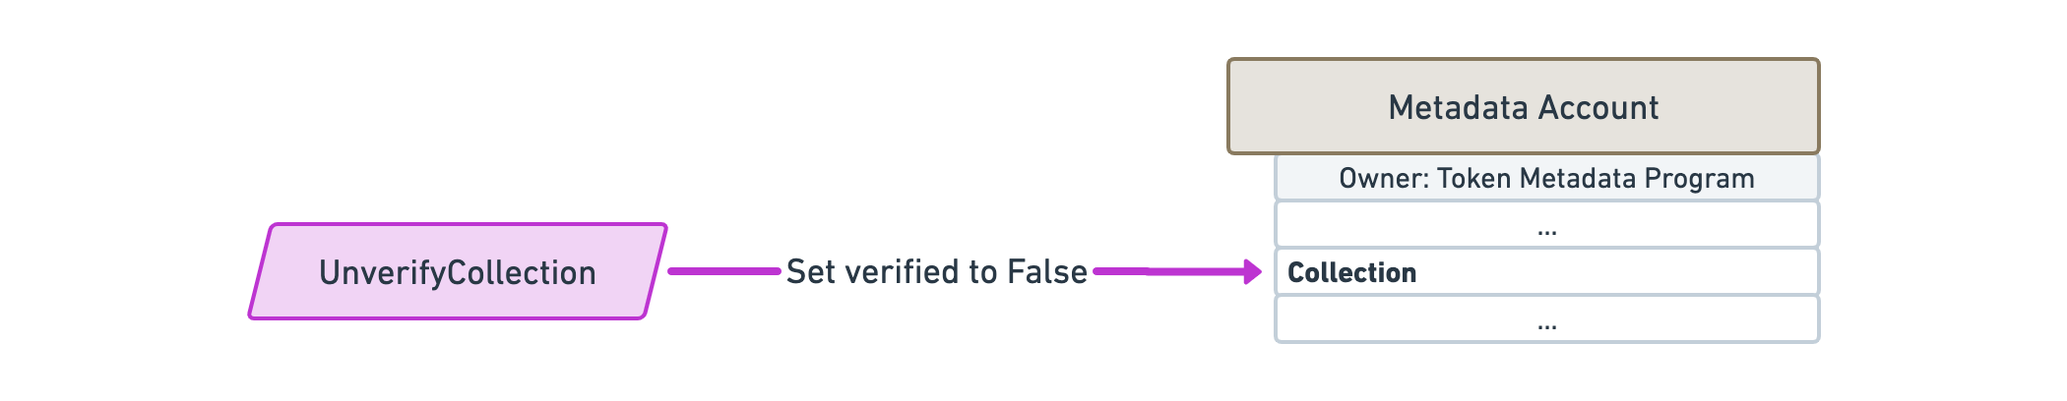
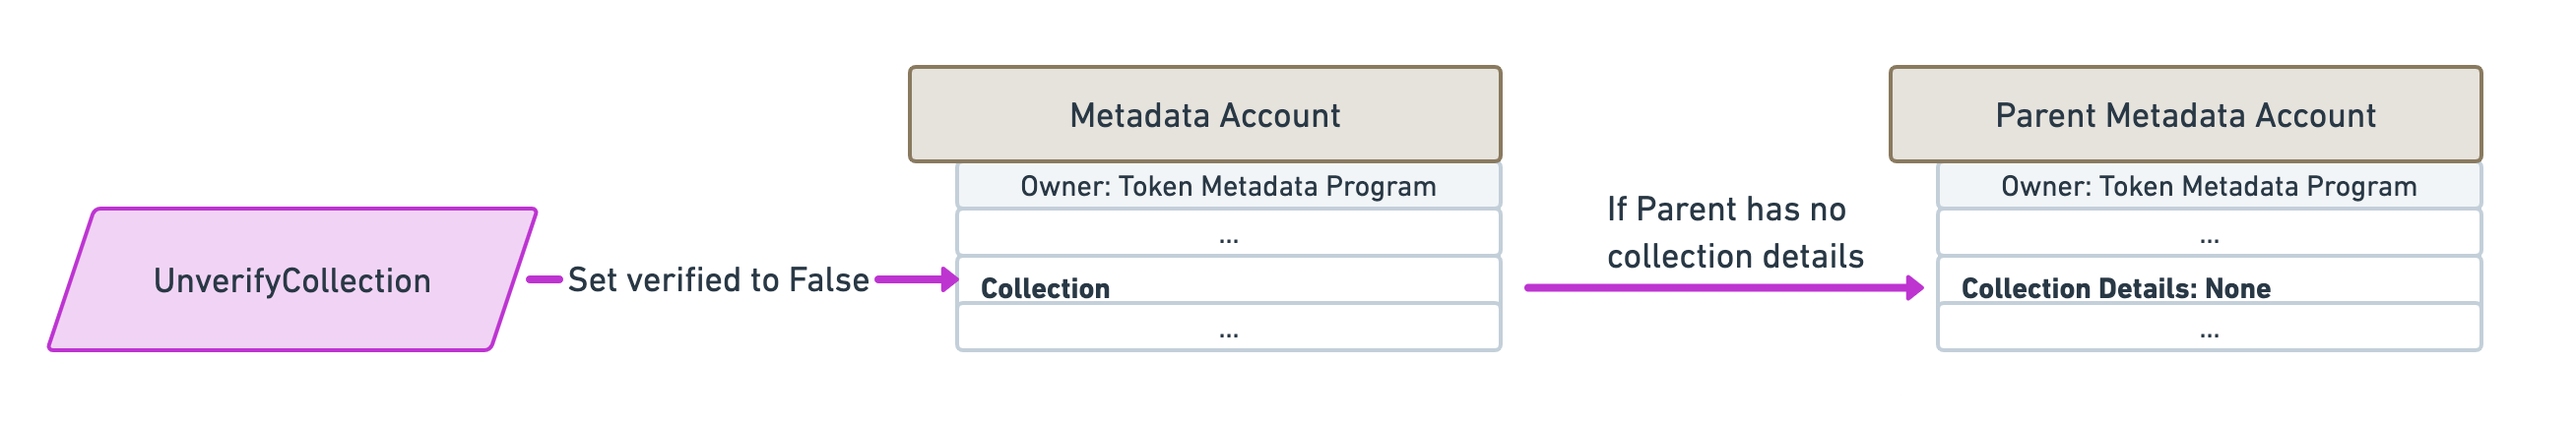
refactor(token-metadata): update verify, unverify and set-and-verify instructions

diff --git a/docs/programs/token-metadata/instructions.md b/docs/programs/token-metadata/instructions.md
@@ -9,7 +9,7 @@ import idl from './idl.js';
 
 ## Create a Metadata account
 
-<ProgramInstruction idl={idl} instruction="CreateMetadataAccountV2">
+<ProgramInstruction idl={idl} instruction="CreateMetadataAccountV3">
 
 ![](./assets/Token-Metadata-Instruction-Create-Metadata.png)
 
@@ -99,43 +99,64 @@ It requires the same conditions as the Master Edition account regarding the Mint
 
 </ProgramInstruction>
 
-## Verify the collection
+## Verify a collection item
 
 <ProgramInstruction idl={idl} instruction="VerifyCollection">
 
 ![](./assets/Token-Metadata-Instruction-Verify-Collection.png)
 
-This instruction verifies the collection of a Metadata account. As long as the provided `Collection Authority` is allowed to update the parent collection and signs the transaction, the `Verified` boolean will be set to `True` on the `Collection` field.
+This instruction verifies the collection of a Metadata account for unsized parent NFTs, by setting the `Verified` boolean to `True` on the `Collection` field. Calling it on a collection whose parent NFT has a size field will throw an error.
+
 
 </ProgramInstruction>
 
-## Verify an Item from a Sized Collection
+## Verify an item from a sized collection
 <ProgramInstruction idl={idl} instruction="VerifySizedCollectionItem">
 
-![](./assets/Token-Metadata-Instruction-Verify-Collection.png)
+![](./assets/Token-Metadata-Instruction-Verify-Sized-Collection-Item.png)
 
 This instruction verifies the collection of a Metadata account, by setting the `Verified` boolean to `True` on the `Collection` field, and increments the size field of the parent NFT. Calling it on a collection whose parent NFT does not have a size field will throw an error. 
 
 </ProgramInstruction>
 
 
-## Unverify the collection
+## Unverify a collection item
 
 <ProgramInstruction idl={idl} instruction="UnverifyCollection">
 
 ![](./assets/Token-Metadata-Instruction-Unverify-Collection.png)
 
-This instruction unverifies the collection of a Metadata account. As long as the provided `Collection Authority` is allowed to update the parent collection and signs the transaction, the `Verified` boolean will be set to `False` on the `Collection` field.
+This instruction unverifies the collection of a Metadata account for unsized parent NFTs, by setting the `Verified` boolean to `False` on the `Collection` field. Calling it on a collection whose parent NFT has a size field will throw an error.
 
 </ProgramInstruction>
+
+## Unverify an item from a sized collection
+
+<ProgramInstruction idl={idl} instruction="UnerifySizedCollectionItem">
+
+![](./assets/Token-Metadata-Instruction-Unverify-Sized-Collection-Item.png)
+
+This instruction unverifies the collection of a Metadata account, by setting the `Verified` boolean to `False` on the `Collection` field, and increments the size field of the parent NFT. Calling it on a collection whose parent NFT does not have a size field will throw an error.
+
+</ProgramInstruction>
+
 
 ## Set and verify the collection
 
 <ProgramInstruction idl={idl} instruction="SetAndVerifyCollection">
 
-This instruction updated the `Collection` field of a Metadata account using the provided `Collection Mint` account as long as its `Collection Authority` signs the transaction.
+This instruction updates the `Collection` field of a Metadata account using the provided `Collection Mint` account as long as its `Collection Authority` signs the transaction and the parent NFT does not have the collection details field populated (unsized).
 
 </ProgramInstruction>
+
+## Set and verify a sized collection item
+
+<ProgramInstruction idl={idl} instruction="SetAndVerifySizedCollectionItem">
+
+This instruction updates the `Collection` field of a Metadata account for sized collections using the provided `Collection Mint` account as long as its `Collection Authority` signs the transaction and the parent NFT has the collection details field populated (sized).
+
+</ProgramInstruction>
+
 
 ## Approve a new Collection Authority
 
